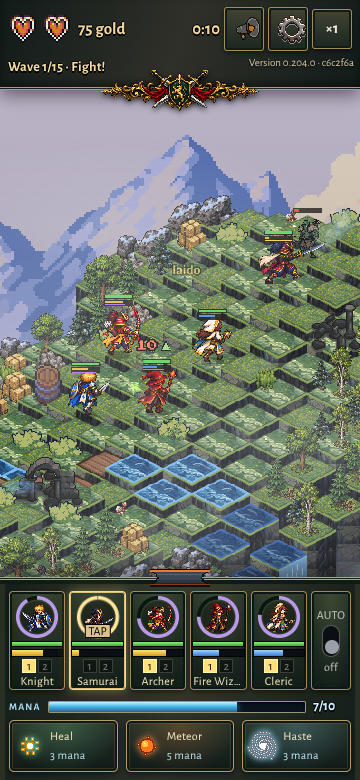
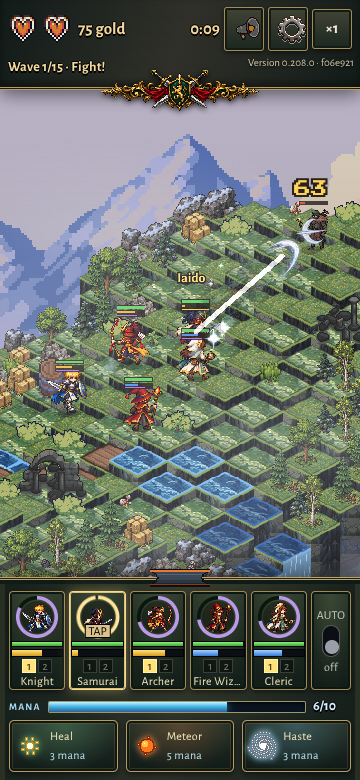
Ultimates once or twice a battle at full strength, answered by tougher foes where they are open (ULT-CHARGE)
Claude-Session: https://claude.ai/code/session_01NDLKRsLZur627w2ZaVbFjf

diff --git a/src/sim/ultimates.ts b/src/sim/ultimates.ts
@@ -459,11 +459,11 @@ function timeStop(b: Battle, me: Unit, out: BattleEvent[]): boolean {
 const FIRST_EIGHT = ['kitsune', 'karasu', 'yamabushi', 'gorgon', 'samuraiCommander', 'sage', 'demonSwordsman', 'tyrant'];
 
 /** Each hero's ultimate balance from level 30 up (COMBAT-002, docs/notes/hero-kits.md): `rate`, how fast its meter fills (times the fight's own fill,
- *  `ULT_FILL` in `heroKits.ts`), and `power` (times the caster's attack while it casts, and times `ULT_FILL.POWER`; a stun, guard, shield or heal
- *  scales with it too). Retuned for ULT-CHARGE (docs/notes/ult-charge.md), when the meter came to fill once or twice a fight: the ultimates whose
- *  worth is what they do rather than what they deal (Nine-Tailed Dream, Hall of Mirrors, the Priestess's) are slower and lighter, and a few heroes
- *  whose kits fall behind against the stronger foes a level-30 team now meets (the Samurai, Ninja Monk, Buccaneer, Demon Swordsman) fire theirs more
- *  often. `test/hero-balance-ultimates.test.ts` holds every hero within the band of the roster average with them. */
+ *  `ULT_FILL` in `heroKits.ts`), and `power` (times the caster's attack while it casts; a stun, guard, shield or heal scales with it too). Retuned for
+ *  ULT-CHARGE (docs/notes/ult-charge.md), when the meter came to fill once or twice a fight: no power below what it was (the owner: "make it still
+ *  hit hard"), and the roster held level by the meters, so the ultimates whose worth is what they do rather than what they deal come round less often
+ *  and a few heroes whose kits fall behind against the stronger foes a level-30 team now meets (the Samurai, Ninja Monk, Buccaneer, Demon Swordsman)
+ *  fire theirs more than twice in a long fight. `test/hero-balance-ultimates.test.ts` holds every hero within the band of the roster average with them. */
 const TUNE: Record<string, NonNullable<Skill['tuned']>> = {
   knight: { rate: 1.46, power: 0.78 },
   samurai: { rate: 2.33, power: 3.07 },

diff --git a/docs/notes/ult-charge.md b/docs/notes/ult-charge.md
@@ -1,99 +1,148 @@
 # Ultimates once or twice a battle (ULT-CHARGE)
 
-The owner: "The ultimates should charge up and be used maybe 1-2 times per battle. Right now it hasn't been charging enough."
+The owner: "The ultimates should charge up and be used maybe 1-2 times per battle. Right now it hasn't been charging enough." Then, on the
+first version (which halved the ultimates' strength to pay for it): "Make it still hit hard" (every ultimate at full strength, the extra power
+answered by tougher foes where content got too easy) and "Allow it" (the Samurai, Ninja Monk, Buccaneer and Demon Swordsman may fire more than
+twice in a long fight). Built on main 0.208.0 (ARMY-PACE): its army numbers are the base the foes were toughened from.
 
 ## What was wrong
 
-The meter (`Unit.charge2`, `ULT_FILL` in `src/sim/heroKits.ts`) filled from damage dealt (16 a hero's own max health), damage taken (26)
-and time (0.55 a second), times each ultimate's `tuned.rate`: about 40 s from empty for an average hero (COMBAT-002's "rarer and bigger").
-Fights are shorter than that: army waves at levels 30 to 52 last 14 to 26 s, their boss waves 28 to 47 s, the daily's waves 10 s, the
-Calamity's fights 16 s. So almost no ultimate fired at all (table below). The bot and the page's Auto already fire ultimates (a headless
-battle has `autoUlt` unset, which counts as on; the page's auto-replay sets it on), so nothing changed there.
+The meter (`Unit.charge2`, `ULT_FILL` in `src/sim/heroKits.ts`) filled from damage dealt (16 a hero's own max health), damage taken (26) and
+time (0.55 a second), times each ultimate's `tuned.rate`: about 40 s from empty for an average hero. Fights are shorter than that (army waves
+18 to 38 s, the daily's 10 s, the Calamity's 16 s), so almost no ultimate fired (table below). The bot and the page's Auto already fire them (a
+headless battle has `autoUlt` unset, which counts as on; auto-replay turns it on).
 
-## What changed
+## The charge (heroes)
 
-- **The meter starts part full.** `fight()` (`startKits` in `battle.ts`) calls `startUlt`: every placed hero whose ultimate is open starts
-  at `ULT_FILL.START` (60), or what it carried from the run's last wave if that is more (`keepCharges`). Below level 30 nothing starts.
+- **The meter starts part full.** `fight()` (`startKits` in `battle.ts`) calls `startUlt`: every placed hero whose ultimate is open starts at
+  `ULT_FILL.START` (60), or what it carried from the run's last wave if more (`keepCharges`). Below level 30 nothing starts.
 - **It fills about 2.5 times as fast:** `DEALT` 40, `TAKEN` 64, `PER_SEC` 1.6 (were 16, 26, 0.55).
-- **Ultimates are half as strong**, all at once: `ULT_FILL.POWER` 0.5 multiplies every hero's `tuned.power` in `castHero`. Firing five to
-  ten times as often at full strength made every level-30+ fight a rout (the hero sweep at stage 39 went from 53% to 99.8% won;
-  Legendary at level 45 went from about 25 tries to 1). Cutting the meter back would have broken the owner's "1-2 a battle", so the
-  strength paid. Even at 0.1 the deep tiers stayed too easy (the ultimates' stuns, taunts, charms and decoys carry much of their worth),
-  so the tiers took the rest (below).
-- **The Last Stand fills at half pace** (`ULT_FILL.STAND` 0.5, set as `Unit.ultPace` on the Stand's heroes): it is one long battle and the
-  meter carries from wave to wave, so at full pace a level-30 party went 6 waves further than the Stand's new targets (STAND-004).
-- **Legendary and Mythic foes are tougher** (`tiers.ts`): Legendary hp 3.4 to 5.1 and attack 2.5 to 3.75 (x1.5), Mythic hp 4.6 to 7.8 and
-  attack 3.2 to 5.4 (x1.7). These are the tiers fought with every ultimate open; Normal, Hard and Elite are unchanged.
-- **Per-hero retune** (`TUNE` in `ultimates.ts`), for parity at the new stage (below), with `tools/kits/tune.mjs` (power) and a rate step for
-  the heroes whose power hit the ceiling or floor. Rates (meter speed) that changed: Samurai 0.84 to 2.04, Kunoichi 0.6 to 1.28, Ninja Monk
-  0.96 to 2.33, Kitsune 0.66 to 0.41, Karasu 0.54 to 0.78, Samurai Commander 0.85 to 0.55, Druid 1.15 to 1.01, Illusionist 1.15 to 0.87,
-  Mercenary 0.59 to 0.95, Buccaneer 0.76 to 2.2, Beastmaster 0.93 to 0.75, Lancer 0.67 to 1.16, Reaper 0.55 to 1.45, Priestess 0.87 to 0.32,
-  Dragoon 0.69 to 0.95, Demon Swordsman 0.79 to 2.2, Wizard 0.7 to 0.56, Tyrant 1.18 to 0.72. Every hero's power moved; the ones whose
-  ultimates are mostly control (Kitsune 0.1, Illusionist 0.07, Priestess 0.06, Beastmaster 0.16, Wolf Bard 0.23, Druid 0.24, Mummy 0.25) are now
-  light, and 13 heroes sit at the top (3.07, so 1.5 with `POWER`).
-- **Tests changed for the new rule:** `hero-balance-ultimates.test.ts` plays stage 56 (was 39: a level-30 team now wins about half there;
-  at 39 it wins 99%); `talents.test.ts` "ultRate fills the ultimate faster" measures the gain over 3 s (in 10 s the quicker meter fills and
-  fires); `more-heroes.test.ts` turns Auto off after the first Demon Form so a second does not come before the first wears off. New:
-  `test/ult-charge.test.ts` (the starting meter, the carried one, locked heroes; and once or twice a fight, the first by mid-fight, two in a
-  long fight). Nothing was loosened.
+- **The Last Stand fills at half pace** (`ULT_FILL.STAND` 0.5, set as the new optional `Unit.ultPace` on the Stand's heroes): it is one long
+  battle and the meter carries from wave to wave.
+- **Full strength.** No ultimate is weaker than on main: every `tuned.power` in `ultimates.ts` is main's or more. The ones raised (they were
+  raised for parity in the first version, and stronger is allowed): Samurai 2.43 to 3.07, Kunoichi 0.76 to 3.07, Wizard 1.06 to 1.44, Ninja Monk
+  1.64 to 3.07, Lightning Mage 0.57 to 1.24, Karasu 1.52 to 3.07, Yamabushi 2.53 to 3.07, Werewolf 1.72 to 3.05, Minotaur 2.32 to 2.85, Satyr
+  0.53 to 0.89, Gorgon 1.51 to 2.2, Samurai Commander 1.4 to 1.6, Barbarian 0.72 to 2.14, Ranger 1.03 to 1.11, Warlock 0.91 to 1.07, Shambler
+  0.43 to 0.99, Rifle Bot 0.98 to 2.17, Mercenary 1.67 to 3.07, Buccaneer 1.21 to 3.07, Kraken 0.88 to 0.94, Lancer 1.02 to 3.07, Reaper 0.91
+  to 3.07, Time Witch 0.61 to 0.62, Arc Blade 0.81 to 2.42, Dragoon 1.34 to 3.07, Juggernaut 1.39 to 1.5, Demon Swordsman 2.45 to 3.07.
+- **Demon Form scales with its strength** (`demonForm` in `abilities.ts`): its length by the square root of its tuned power and its heal by
+  the power, as the other ultimates' stuns and heals do; before, nothing in it read the power, so the Demon Swordsman fell 15 points behind
+  the roster at full strength and no meter speed could catch him up.
+- **Parity by meter speed only** (`tuned.rate`, `tools/kits/tune.mjs` with `KEY=ur`; the tool now starts `ur` from the ultimate's own rate, it
+  used to start it from skill 2's tune): knight 1.86 to 1.46, samurai 0.84 to 2.33, kunoichi 0.6 to 1.65, archer 0.77 to 0.65, wizard 0.7 to
+  0.51, peasant 1.95 to 1.11, ninjaMonk 0.96 to 2.41, wanderer 0.58 to 0.37, lightningMage 0.72 to 0.92, kitsune 0.66 to 0.6, karasu 0.54 to
+  0.77, yamabushi 1.4 to 1.85, werewolf 0.61 to 0.73, minotaur 1.41 to 1.51, satyr 0.67 to 0.69, gorgon 1.06 to 1.29, samuraiCommander 0.85 to
+  1.1, paladin 1.53 to 1.31, cleric 0.76 to 0.58, druid 1.15 to 1.19, barbarian 0.84 to 0.9, ranger 0.8 to 0.84, warlock 0.72 to 0.5,
+  illusionist 1.15 to 1.08, gunslinger 0.73 to 0.37, shambler 1.53 to 1.04, rifleBot 0.76 to 1.01, mercenary 0.59 to 1.21, mummy 1.7 to 0.99,
+  buccaneer 0.76 to 3.11, wolfBard 1.04 to 0.93, beastmaster 0.93 to 0.7, kraken 1.62 to 1.37, lancer 0.67 to 1.61, reaper 0.55 to 1.79,
+  timeWitch 0.97 to 1.09, arcBlade 0.54 to 0.59, dreadPirate 1.4 to 1.06, siegeBot 1.18 to 0.5, priestess 0.87 to 0.38, dragoon 0.69 to 1.1,
+  juggernaut 1.87 to 1.55, sage 0.95 to 1.7, demonSwordsman 0.79 to 2.06, tyrant 1.18 to 0.88.
 
-## Before and after (`node tools/ult-charge/run.mjs 4`)
+## The answer (foes): every foe-strength change
 
-The greedy players of `tools/autoplay.ts`, Auto on, per hero with its ultimate open. "First" is the median second the meter is first full;
-"ults" the ultimates a hero fires a fight. (The bot does not carry the meter between waves; the page does, so players see a little more.)
+With full-strength ultimates firing once or twice a fight a level-30 team is far stronger (the hero sweep's even stage moved from 39 to 78),
+so the content fought with ultimates open was made tougher, measured against main 0.208.0. Nothing below level 30 moved: the first four
+armies' Normal, Hard and Elite, the fresh-save daily and the Calamity's first five maps are as they were.
 
-| Mode | Fight (s) | First full (s) | Ults a fight | Fight (s) | First full (s) | Ults a fight |
-| --- | --- | --- | --- | --- | --- | --- |
-| | **before** | | | **after** | | |
-| Army waves, Normal, lv 30-52 | 14-26 | never (0-1% fill) | 0.00 | 13-20 | 10-12 | 0.57-0.88 |
-| Army boss waves, Normal | 28-47 | 39-52 (5-22% fill) | 0.00-0.26 | 24-36 | 11-12 | 0.95-1.98 |
-| Elite lv 40 (orcs) waves / bosses | 20 / 27 | never | 0.00 | 18 / 22 | 11 | 0.67 / 1.30 |
-| Legendary lv 60 waves / bosses | 39 / 53 | 50 | 0.05 / 0.40 | 36 / 58 | 6-11 | 1.61 / 2.20 |
-| Mythic lv 100 waves / bosses | 38 / 43 | 38-50 | 0.11 / 0.20 | 39 / 33 | 9-10 | 2.32 / 2.20 |
-| Daily waves / boss, lv 30-50 | 10 / 22 | never | 0.00 / 0.01 | 8 / 15 | 4 / 6 | 0.45 / 1.10 |
-| Last Stand waves, lv 30-60 | 24 | 14-15 | 0.25 | 24 | 13 | 0.43-0.48 |
-| Calamity fights / bosses | 16 / 24 | never / 29 | 0.00 / 0.03 | 14 / 21 | 5 | 0.96 / 1.55 |
-
-The deep tiers with every talent (`ultRate` talents fill it up to half again faster) see a little over two a fight.
-
-## Parity (`node tools/kits/tune.mjs <empty> 30 <stage> 12000`)
-
-Before (stage 39, main 0.204.0): average 52.7%, spread 11.2, none beyond 6, 9 beyond 4.
-knight 2.2, samurai -4.5, kunoichi 2.3, archer -0.9, wizard -0.5, peasant 2.2, ninjaMonk -2.7, wanderer -0.0, lightningMage 3.4, kitsune 2.3,
-karasu -2.2, yamabushi -2.6, werewolf -3.3, minotaur -5.3, satyr 4.0, gorgon -2.2, samuraiCommander -1.7, paladin 1.1, cleric -0.9, druid 5.5,
-barbarian 2.1, ranger -0.2, warlock 0.6, illusionist 4.8, gunslinger -3.3, shambler 2.5, rifleBot 0.3, mercenary -3.0, mummy 3.3, buccaneer -1.3,
-wolfBard 4.4, beastmaster 3.6, kraken 0.9, lancer -0.3, reaper 0.8, timeWitch 2.9, arcBlade 1.0, dreadPirate -0.8, siegeBot -4.2, priestess 5.5,
-dragoon -1.9, juggernaut -2.1, sage -2.4, demonSwordsman -5.7, tyrant -3.6.
-
-After (stage 56): average 57.7%, spread 7.8, none beyond 6, 1 beyond 4 (at stage 39 the average is now 99.3%).
-knight 0.7, samurai -0.1, kunoichi -0.5, archer -0.4, wizard 0.5, peasant -0.1, ninjaMonk -1.4, wanderer 0.6, lightningMage 1.2, kitsune -0.2,
-karasu -1.2, yamabushi -0.7, werewolf -0.3, minotaur 1.1, satyr 1.3, gorgon 1.1, samuraiCommander 0.3, paladin 1.6, cleric 1.0, druid -1.1,
-barbarian 0.1, ranger -0.5, warlock 0.7, illusionist 0.8, gunslinger 0.1, shambler 1.5, rifleBot 0.2, mercenary -1.6, mummy 0.2, buccaneer -3.5,
-wolfBard -0.3, beastmaster 1.0, kraken 0.6, lancer -0.9, reaper -2.3, timeWitch 0.8, arcBlade 2.5, dreadPirate 0.5, siegeBot 1.1, priestess -1.3,
-dragoon -2.0, juggernaut 1.2, sage 3.0, demonSwordsman -4.8, tyrant -0.9.
-
-## Pace (mean tries to clear, `SAVES=6 node tools/tries/run.mjs`, the starting five, maxed castle, gear)
-
-| Cell | Before | After |
+| Where | Change (was) | Why |
 | --- | --- | --- |
-| Labyrinth Normal lv 30 / Golems Normal lv 52 | 1.0 / 1.3 | 1.0 / 1.2 |
-| Legendary lv 45 +talents: infernal / yokai / golems | 25.0 / 18.0 / 25.2 | 23.5 / 13.3 / 26.0 |
-| Mythic lv 100 +talents: infernal / yokai / golems | 8.0 / 1.8 / 6.7 | 4.2 / 2.2 / 14.8 |
-| Last Stand greedy median wave, lv 30 / 60 / 100 (`stand-balance`, 10 runs) | 15 / 22 / 29 | 14 / 20 / 27 |
+| Labyrinth Normal `start` (`armies.ts`) | 4.85 (3.05) | 2.8 tries at its level 35 again |
+| Ogre Clans Normal `start` | 9.3 (4.1) | 2.8 tries at 45 |
+| Infernal Host Normal `start` | 10 (5.67) | about 6 tries at 55, and not cleared at 45 in three tries (`army-pace.test.ts`) |
+| Yokai Night Parade Normal `start` | 12.5 (7) | not cleared at 45 in three tries |
+| Golem Forge Normal `start` | 12.7 (7.1) | about 10 tries at 65 |
+| Legendary and Mythic, every army (`tiers.ts`, new `Tier.answer`) | x2.8 and x2.6 on hp and attack (x1) | the first army's stars at the levels they were |
+| Labyrinth `tierLift` Hard, Elite, Legendary, Mythic | 1.6, 2.34, 0.83, 0.98 (none) | its tiers' clears where they were; Hard above Normal |
+| Ogre Clans `tierLift` | 3.18, 2.57, 0.83, 0.92 (1.45, 1.1, 1, 1) | as above |
+| Infernal Host `tierLift` | 2.97, 2.38, 0.76, 0.87 (1.55, 1.16, 1, 1) | as above |
+| Yokai Night Parade `tierLift` | 3.45, 2.76, 0.79, 0.67 (2.12, 1.6, 1.25, 1) | as above |
+| Golem Forge `tierLift` | 3.3, 2.5, 0.74, 0.73 (1.8, 1.34, 1.2, 1) | as above |
+| Last Stand `WAVE_GROWTH_LATE`, `WAVE_GROWTH_DEEP` (`stand.ts`) | 0.2, 0.29 (0.14, 0.35) | level 30's median wave back from 19 toward 14; the climb past wave 18 as steep |
+| Calamity `CAL_SCALE.final` (`calamity.ts`) | 1 (0.6) | the last map's fights (not its boss), the only map with heroes at 30: its boss share 36% back to 16% |
+| Daily `DAILY_ANSWER.ult` (`modes.ts`, new) | 0.17 more foe strength for each of the five at level 30+ (none) | a levelled save's clear rate back to about 70% |
 
-## Open questions for the owner
+The XP stays as it was: `armyXpShare` also divides by the tier's `answer`, as it does by `tierLift` and the raised `start`
+(`xpStart`). The late armies' Legendary and Mythic lifts are below 1 because the tiers' own answer (tuned on the first army) overshoots for them.
 
-- **Weaker ultimates.** Each ultimate now hits about half as hard as in 0.172 to 0.204, and a few control-heavy ones much less; several
-  (Knight, Wizard, Siege Bot, Juggernaut, Samurai Commander, Tyrant, Priestess, Illusionist, Kitsune) are now below the strength they had
-  before the hero kits, which the owner had asked never to happen. The other way to pay for the frequency is to keep them big and make the
-  level-30+ foes tougher everywhere (armies, spire, Calamity, Stand).
-- **Four heroes fire more than twice in a fierce fight** (Samurai, Ninja Monk, Buccaneer, Demon Swordsman, rate 2 or more): their kits fall
-  behind at the stage where level-30 heroes are now measured, and a quicker ultimate was the lever that keeps them in the band.
+## Before and after (main 0.208.0 / this branch)
+
+**Ultimates a hero a fight, and the median second its meter is first full** (`node tools/ult-charge/run.mjs 4`, the greedy players, Auto on;
+the bot does not carry the meter between waves, the page does):
+
+| Mode | Before: fight, first full, ults | After: fight, first full, ults |
+| --- | --- | --- |
+| Army waves, Normal, at their levels 35-74 | 18-38 s, 33-36 s (0-9% fill), 0.00-0.09 | 18-38 s, 10-13 s, 0.92-1.77 |
+| Army boss waves | 36-50 s, 34-49 s, 0.10-0.25 | 19-46 s, 9-13 s, 1.0-2.2 |
+| Elite lv 40 (Orcs) waves / bosses | never / 0 | 12-13 s / 0.50 / 0.95 |
+| Legendary lv 60 waves / bosses | 50 s / 0.05 / 0.40 | 7-12 s / 1.35 / 2.0 |
+| Mythic lv 100 waves / bosses | 38-50 s / 0.11 / 0.20 | 12 s / 1.72 / 2.3 |
+| Daily waves / boss, lv 30-50 | never / 0.00 / 0.01 | 3.5 / 6.6 s / 0.6 / 1.3 |
+| Last Stand waves, lv 30-60 | 14-15 s / 0.25 | 11-14 s / 0.37-0.44 |
+| Calamity fights / bosses | never / 0.00 / 0.03 | 5 s / 0.92 / 1.55 |
+
+**Parity** (`node tools/kits/tune.mjs <empty> 30 <stage> 12000`; `hero-balance-ultimates.test.ts` now plays stage 78):
+before (stage 39) average 52.7%, spread 11.2, none beyond 6, 9 beyond 4; after (stage 78) average 49.7%, spread 5.7, none beyond 4. After:
+knight 0.8, samurai 0.8, kunoichi -0.1, archer -0.3, wizard 1.6, peasant -0.7, ninjaMonk 0.0, wanderer 0.1, lightningMage 0.9, kitsune 2.9,
+karasu 1.6, yamabushi -0.5, werewolf -0.7, minotaur -0.4, satyr -0.7, gorgon -1.4, samuraiCommander -0.8, paladin 1.1, cleric -2.8, druid 0.7,
+barbarian 0.9, ranger -0.7, warlock -1.7, illusionist 0.4, gunslinger 0.3, shambler -0.6, rifleBot -0.4, mercenary -0.2, mummy 0.7, buccaneer
+-0.2, wolfBard -0.5, beastmaster -0.4, kraken -1.4, lancer 1.0, reaper 0.8, timeWitch -1.0, arcBlade -0.4, dreadPirate -1.8, siegeBot 2.7,
+priestess -0.3, dragoon 0.9, juggernaut 0.3, sage -0.3, demonSwordsman 0.1, tyrant -0.6. (Before, stage 39: knight 2.2, samurai -4.5,
+kunoichi 2.3, archer -0.9, wizard -0.5, peasant 2.2, ninjaMonk -2.7, wanderer -0.0, lightningMage 3.4, kitsune 2.3, karasu -2.2, yamabushi
+-2.6, werewolf -3.3, minotaur -5.3, satyr 4.0, gorgon -2.2, samuraiCommander -1.7, paladin 1.1, cleric -0.9, druid 5.5, barbarian 2.1, ranger
+-0.2, warlock 0.6, illusionist 4.8, gunslinger -3.3, shambler 2.5, rifleBot 0.3, mercenary -3.0, mummy 3.3, buccaneer -1.3, wolfBard 4.4,
+beastmaster 3.6, kraken 0.9, lancer -0.3, reaper 0.8, timeWitch 2.9, arcBlade 1.0, dreadPirate -0.8, siegeBot -4.2, priestess 5.5, dragoon
+-1.9, juggernaut -2.1, sage -2.4, demonSwordsman -5.7, tyrant -3.6.)
+
+**The army pace** (`SAVES=8 node tools/army-pace/run.mjs normal|stars`, ARMY-PACE's player): mean tries to clear Normal, before / after.
+
+| Army (level) | Lv 35 | Lv 45 | Lv 55 | Lv 65 | Lv 75 |
+| --- | --- | --- | --- | --- | --- |
+| Orcs to Wildwood | 1.0 / 1.0 | 1.0 / 1.0 | 1.0 / 1.0 | 1.0 / 1.0 | 1.0 / 1.0 |
+| Labyrinth (35) | 2.5 / 3.0 | 1.0 / 1.1 | 1.0 / 1.0 | 1.0 / 1.0 | 1.0 / 1.0 |
+| Ogre Clans (45) | 18.1 / 20.8 | 2.9 / 2.4 | 1.1 / 1.4 | 1.0 / 1.0 | 1.0 / 1.0 |
+| Infernal Host (58) | 26 / 23.5 | 21.5 / 15.0 | 5.4 / 6.5 | 1.3 / 1.6 | 1.0 / 1.3 |
+| Yokai Night Parade (65) | 26 / 26 | 25.9 / 26 | 17.0 / 25.8 | 2.3 / 8.1 | 1.8 / 3.6 |
+| Golem Forge (74) | 26 / 26 | 26 / 26 | 25.9 / 26 | 10.1 / 11.3 | 2.5 / 4.1 |
+
+The first army's 11 stars (tries to all of a tier's stars, Legendary / Mythic; saves with all 11 of 8), before / after: level 45 4.6 / 17.0,
+4 of 8 / 4.5 / 22.3, 2 of 8; level 55 2.1 / 17.4, 5 / 2.4 / 17.1, 4; level 65 1.3 / 6.0, 8 / 1.6 / 6.4, 8; level 75 1.3 / 2.4, 8 / 1.5 / 2.3, 8.
+(Without the answer, the ultimates had every star by level 35, 2.3 tries of Mythic.) So the owner's ARMY-PACE target holds: a typical player
+has all 11 between levels 55 and 65 to 72; the Infernal Host comes just before (6.5 tries at 55), the Yokai (26 at 55, 8 at 65) and the
+Golem Forge (26 at 55, 11 at 65) after. The Yokai is a little later than on main (its first clear about level 70, was about 64), the price of
+keeping it out of reach at 45 (a lucky level-45 seed cleared it at a `start` of 12).
+
+The late armies' tiers (`SAVES=6 ONLY=... tiers 55,70,85,100`), mean tries before / after: Ogres Hard 3.0 / 2.8 at 55, Elite 14.2 / 9.3 at 55,
+Legendary 3.8 / 4.0 at 70, Mythic 16.0 / 13.0 at 85; Infernal Hard 13.3 / 12.5 at 55, Elite 5.8 / 6.7 at 70, Legendary 16.5 / 14.7 at 70,
+Mythic 9.0 / 12.2 at 100; Yokai Hard 2.8 / 2.8 at 70, Elite 15.3 / 12.3 at 70, Legendary 3.3 / 3.3 at 85, Mythic 14.5 / 11.5 at 85; Golems
+Hard 5.8 / 6.8 at 70, Elite 4.5 / 4.8 at 85, Legendary 11.3 / 7.3 at 85, Mythic 7.7 / 9.7 at 100; Labyrinth Elite 13.2 / 16.0 at 55,
+Legendary 10.3 / 12.0 at 70, Mythic 6.2 / 7.2 at 100. Without the answer every late Hard and Elite was a first-try clear at 55.
+
+**The Last Stand** (greedy median wave, `stand-balance`, 10 to 16 runs), levels 1, 10, 20, 30, 60, 100: before 4, 9, 10, 15, 22, 29 (25 at 100
+over 20 runs); the charge alone 19 at 30; after 4, 10, 11, 16, 20, 25 (the owner's targets about 4, 9, 10, 14, 20, 25).
+
+**The Calamity** (`npm run balance -- --no-tables --calamity --attempts 100`, share felling each map's boss): before 91 / 79 / 65 / 51 / 51 /
+16%; the charge alone 91 / 79 / 65 / 51 / 51 / 36%; after 91 / 79 / 65 / 51 / 51 / 16%. Raising the last boss's health (even x1.8) did not
+move it: the heroes now come through the last map's fights, which is where `final` acts.
+
+**The daily** (the scaled daily, 60 dates, the starting five at a level): cleared before 67% (level 30), 73% (level 50); the charge alone
+100% and 100%; after 70% and 75%. A fresh save (no hero at 30; `npm run daily-rate`, the 66% target) meets the daily as it was.
+
+## Tests changed for the new rules (none loosened)
+
+- `hero-balance-ultimates.test.ts` plays stage 78 (39 before: at 39 a level-30 team now wins 99%).
+- `army-pace.test.ts`: the first four armies have no lift (it said the first five, and Mythic 1 on every army); a changed army's XP share
+  takes out its lift and the tier's answer.
+- `armyStars.test.ts`: a tier's strength includes its answer.
+- `hero-kits-all.test.ts`: the long fight's band has hp 80 (was 16: the ultimates now ended it before the skills came round).
+- `ultimates.test.ts` (Tempest, Stone Curse) and `more-heroes.test.ts` (Demon Form): sturdier foes, so the stun, shove, petrify and the
+  form's end are seen on a living foe; Auto off after the first Demon Form.
+- `talents.test.ts` "ultRate fills the ultimate faster" measures the gain over 3 s.
+- New `test/ult-charge.test.ts`: the starting meter, a carried one, locked heroes; about once a fight, the first by mid-fight, two in a long one.
 
 ## Tools
 
-- `tools/ult-charge/run.mjs [saves] [--only armies,tiers,daily,stand,calamity]`: the table above (`ULT=START=40,POWER=0.6` tries other
-  numbers). It wraps `stepBattle` in its own bundle only.
-- `tools/tries/run.mjs` takes `TIERK=3:1.2,4:1.3` (a tier's foes' hp and attack) and `ULTK=0.5` (the strength) for tuning runs.
-- `tools/ult-charge/shots.mjs` (after `npm run web`): a level-30 wave with Auto off, run until a ring fills by itself, at 393x852, 360x780
-  and 412x915 (`docs/samples/ult-charge-bar*.png`: the Samurai's ring full and saying TAP 10.7 s in).
+- `tools/ult-charge/run.mjs [saves] [--only armies,tiers,daily,stand,calamity]`: the ultimates table (and the daily's clear rate; `ULT=...`,
+  `DAILYK=0.17` for tuning runs). It wraps `stepBattle` in its own bundle only.
+- `tools/army-pace/run.mjs` takes `TIERK=3:2.8,4:2.6` (a tier's hp and attack) for tuning runs; `tools/tries/run.mjs` too.
+- `tools/ult-charge/shots.mjs` (after `npm run web`): a level-30 wave, Auto off, run until a ring fills on its own, at 393x852, 360x780 and
+  412x915 (`docs/samples/ult-charge-bar*.png`: the Samurai's ring full and saying TAP 9.9 s in).

diff --git a/docs/TASKS.md b/docs/TASKS.md
@@ -229,7 +229,7 @@ Owner relayed the UI chat's report. GitHub confirms PR #118 is open and draft. T
 
 | ID | Task | Result | Reference |
 | --- | --- | --- | --- |
-| ULT-CHARGE | Ultimates used once or twice a battle | Ready for owner review: the meter starts each fight 60 full and fills about 2.5x as fast (army waves 0 to about 0.7 ultimates a hero, boss waves about 1.4, first about 12 s in); ultimates half as strong, Last Stand meter at half pace, Legendary x1.5 and Mythic x1.7 foes, per-hero retune; parity at stage 56 (spread 7.8), full suite 1367/1367, build, three phone sizes. Owner questions in the note (weaker ultimates, four heroes over two a fight) | [Note](notes/ult-charge.md), branch `claude/ult-charge` |
+| ULT-CHARGE | Ultimates used once or twice a battle | Ready for owner review (on main 0.208.0): the meter starts each fight 60 full and fills about 2.5x as fast, ultimates at full strength (none weaker than main), parity by meter speed at stage 78 (spread 5.7); the extra power answered by tougher foes only where ultimates are open: the five late armies' Normal `start` and `tierLift`, Legendary x2.8 and Mythic x2.6 (`Tier.answer`, XP taken back out), the Last Stand's late climb, the Calamity's last map, the daily for levelled saves. Army pace, first-army stars, Stand, Calamity and daily back near main; full suite 1377/1377, build, three phone sizes | [Note](notes/ult-charge.md), branch `claude/ult-charge` |
 | AUDIO-150 | Recorded combat sounds and a quieter, cleaner battle mix | Released as 0.186.0; the sounds' source (given as CC0) still needs naming in CREDITS.md | PR #150 |
 | AUDIO-147 | Battle music opens on the combat downbeat; the camp's theme plays across all home tabs | Released as 0.184.0; the loop start was moved to 5.68 s (bar 4) so the loop stays whole bars and joins on the beat | PR #147 |
 | UI-CASTLE-1 | Remove the corner relic emblems from the castle's building cards | Owner asked; released as 0.183.0; castle tests, build, fresh/old-save and Last Stand smoke passed | branch `claude/castle-card-corners`, screenshot `samples/castle-no-corner-emblems-393x852.png` |
